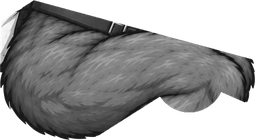
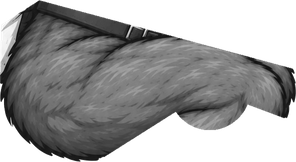
Beta: neue Figur – Seitenbein aus einem Guss, Kabelübungen (#63)
* Beta: Pausen-Bildschirm im Gym mit Zielpause pro Übung

- Nach jedem Satz grosser Pausen-Bildschirm: Pausenzeit mit Ring bis zur
  empfohlenen Pause (Standard 2 min), danach grün „Bereit“ und kurze
  Vibration; darunter was als Nächstes kommt (Übung, Satz, eben/letztes
  Mal) und ein grosser Knopf
- Zielpause mit −15/+15 s pro Übung einstellbar, im Konto gespeichert
- Supersatz: zwischen A und B kein Pausen-Bildschirm, in der Leiste Satz
  und Vorschlag; nach der Runde Pause mit der ganzen nächsten Runde,
  Zielpause = längste der Gruppe
- Wegwischen/Zurück blendet aus, Pausenuhr in der Leiste antippen holt ihn
  zurück; „Übung wechseln“ führt zur Übungsauswahl

Claude-Session: https://claude.ai/code/session_01RzgDZiCUCCWMjrRSUqxzer

* Haupt-App: Supersätze und Pausen-Bildschirm aus der Beta übernehmen

Übernahme mit tools/promote-beta.sh (Supersätze in Plan und Freestyle,
Pausen-Bildschirm mit Zielpause pro Übung).

Claude-Session: https://claude.ai/code/session_01RzgDZiCUCCWMjrRSUqxzer

* Beta: neue Faultier-Figur (v2) hinter Schalter im Konto (Zwischenstand)

Teile aus ganzen Zeichnungen geschnitten (tools/sloth-rig/build_v2.py),
Standard bleibt die klassische Figur. Seitenansicht: Rumpf wartet noch
auf eine Zeichnung ohne Arm vor der Brust.

Claude-Session: https://claude.ai/code/session_01RzgDZiCUCCWMjrRSUqxzer

* Beta: Seitenansicht der neuen Figur mit eigenem Rumpf ohne Arme

Die Brust kommt jetzt aus side_torso.jpg (kein Arm davor), keine
[…]

diff --git a/beta/sloth-rig.js b/beta/sloth-rig.js
@@ -18,7 +18,7 @@ const slothPartHref = (im) => (im.startsWith('v2') ? SLOTH_RIG2_BASE : SLOTH_RIG
 const SLOTH_PARTS = {"front_head":[510,53,696,293],"front_torso":[456,248,745,582],"front_uarm_l":[296,251,478,388],"front_uarm_r":[723,251,904,388],"front_farm_l":[51,288,294,400],"front_farm_r":[907,288,1150,400],"front_thigh_l":[439,516,582,697],"front_thigh_r":[629,516,773,697],"front_tail":[566,584,643,725],"front_calf_l":[444,678,569,866],"front_calf_r":[643,679,768,866],"back_head":[510,53,696,293],"back_torso":[455,247,745,622],"back_uarm_l":[300,251,478,388],"back_uarm_r":[723,251,900,388],"back_farm_l":[163,288,294,396],"back_farm_r":[906,288,1039,396],"back_elbow_l":[267,315,319,367],"back_elbow_r":[881,314,934,367],"back_grip_l":[195,606,314,813],"back_grip_r":[899,606,1018,813],"back_thigh_l":[439,567,571,697],"back_thigh_r":[641,562,773,697],"back_tail":[566,619,643,741],"back_calf_l":[444,678,569,866],"back_calf_r":[643,678,768,866],"pose_russian_a":[209,33,499,221],"pose_russian_b":[679,29,968,221],"pose_ninety":[339,246,498,434],"pose_frog_a":[252,454,543,618],"pose_frog_b":[697,485,1018,614],"pose_extrot_a":[405,634,537,875],"pose_extrot_b":[633,634,817,876],"eq_plate":[570,40,688,159],"eq_kettlebell":[870,40,962,159],"eq_dumbbell":[184,51,365,151],"eq_dhandle":[178,193,273,328],"eq_rope":[515,183,622,331],"eq_ring":[866,182,955,336],"eq_barend":[66,379,285,434],"eq_bench":[326,418,558,499],"eq_incline":[604,353,821,499],"eq_decline":[887,404,1118,499],"eq_cable":[92,506,252,840],"eq_dipstation":[436,631,630,840],"eq_rack":[890,553,1108,840],"eq_latpull":[68,33,226,248],"eq_legpress":[312,68,575,239],"eq_legext":[657,67,851,241],"eq_legcurl":[917,67,1143,241],"eq_butterfly":[69,324,232,543],"eq_abduction":[362,329,510,543],"eq_calfseated":[657,417,844,543],"eq_calfstanding":[931,326,1134,541],"eq_hyperext":[71,688,280,839],"eq_pullover":[465,604,649,840],"eq_tbar":[877,653,1112,840],"eq_abwheel":[181,58,443,250],"eq_jumprope":[776,42,989,261],"eq_ladder":[93,361,534,514],"eq_stepbox":[748,354,1035,538],"eq_band":[93,682,531,759],"eq_mat":[627,666,1152,759],"eq_stack":[303,516,390,652],"eq_calfframe":[499,491,711,666],"eq_calfpad":[807,531,920,627],"eq_dipbars":[292,735,461,819],"eq_nordic":[535,711,724,819],"eq_abductseat":[1008,654,1141,819],"eq_edge":[818,753,954,823],"front_face_neutral":[106,22,253,213],"front_face_effort":[106,22,251,213],"front_face_blink":[106,22,253,213],"front_face_yawn":[106,22,253,213],"side_face_neutral":[104,40,335,317],"side_face_effort":[103,40,334,317],"side_face_blink":[104,40,332,317],"side_torso":[458,53,699,568],"side_body":[458,220,692,568],"side_tail":[372,453,473,535],"side_uarm":[791,80,910,268],"side_uarm_far":[791,80,910,268],"side_elbow":[811,261,857,307],"side_elbow_far":[811,261,857,307],"side_farm":[770,320,959,400],"side_farm_far":[770,320,959,400],"side_hand":[990,449,1166,539],"side_hand_far":[990,449,1166,539],"side_thigh":[629,516,773,687],"side_thigh_far":[629,516,773,687],"side_knee":[721,652,768,700],"side_knee_far":[721,652,768,700],"side_calf":[1020,689,1180,854],"side_calf_far":[1020,689,1180,854],"side_shin":[1020,689,1122,793],"side_shin_far":[1020,689,1122,793],"side_fist":[59,109,404,284],"side_fist_far":[59,109,404,284],"side_foot":[152,622,370,804],"side_foot_far":[152,622,370,804],"side_flat":[624,706,893,825],"side_flat_far":[624,706,893,825]};
 /* PARTS:END */
 /* V2:BEGIN */
-const SLOTH_V2 = {"parts":{"v2front_torso":[149,183,351,481],"v2front_head":[173,15,331,198],"v2front_uarm_l":[86,206,200,366],"v2front_farm_l":[12,322,139,516],"v2front_farmfist_l":[12,322,139,516],"v2front_thigh_l":[142,400,251,584],"v2front_calf_l":[80,546,224,758],"v2front_uarm_r":[300,206,418,364],"v2front_farm_r":[365,322,497,516],"v2front_farmfist_r":[365,322,497,516],"v2front_thigh_r":[252,400,365,584],"v2front_calf_r":[284,546,428,758],"v2back_torso":[149,182,351,466],"v2back_head":[174,12,338,201],"v2back_uarm_l":[79,204,201,371],"v2back_farm_l":[30,326,142,440],"v2back_grip_l":[12,412,86,518],"v2back_thigh_l":[143,398,252,586],"v2back_calf_l":[78,546,224,753],"v2back_uarm_r":[300,204,429,367],"v2back_farm_r":[370,326,478,438],"v2back_grip_r":[426,412,499,518],"v2back_thigh_r":[250,397,370,585],"v2back_calf_r":[285,546,430,753],"v2hang_torso":[164,216,346,464],"v2hang_head":[196,120,317,263],"v2hang_uarm_l":[126,136,213,334],"v2hang_farm_l":[122,50,192,164],"v2hang_grip_l":[120,13,198,74],"v2hang_thigh_l":[152,400,261,581],"v2hang_calf_l":[136,540,235,754],"v2hang_uarm_r":[297,136,387,348],"v2hang_farm_r":[321,52,391,164],"v2hang_grip_r":[316,13,392,74],"v2hang_thigh_r":[250,400,360,582],"v2hang_calf_r":[277,540,376,754],"v2sit_torso":[153,184,361,403],"v2sit_head":[176,22,337,196],"v2sit_uarm_l":[78,215,181,389],"v2sit_farm_l":[49,352,150,539],"v2sit_thigh_l":[136,377,258,491],"v2sit_calf_l":[100,453,244,750],"v2sit_uarm_r":[330,216,435,389],"v2sit_farm_r":[362,352,464,539],"v2sit_thigh_r":[254,377,376,489],"v2sit_calf_r":[268,453,412,750],"v2side_torso":[87,211,307,557],"v2side_face":[92,11,254,191],"v2side_uarm":[157,180,325,270],"v2side_farm":[296,184,442,266],"v2side_hand":[422,190,496,238],"v2side_fist":[296,184,496,266],"v2side_flat":[422,190,496,238],"v2side_thigh":[136,395,280,595],"v2side_calf":[204,556,380,751],"v2side_shin":[204,556,293,744],"v2side_foot":[238,670,380,750],"v2side_uarm_far":[157,180,325,270],"v2side_farm_far":[296,184,442,266],"v2side_hand_far":[422,190,496,238],"v2side_fist_far":[296,184,496,266],"v2side_flat_far":[422,190,496,238],"v2side_thigh_far":[136,395,280,595],"v2side_calf_far":[204,556,380,751],"v2side_shin_far":[204,556,293,744],"v2side_foot_far":[238,670,380,750],"v2side_thigh45":[128,455,358,626],"v2side_thigh45_far":[128,455,358,626],"v2side_thigh90":[95,357,350,497],"v2side_thigh90_far":[95,357,350,497]},"joints":{"front":{"torso":[[250.0,445.0],[250.0,185.0]],"head":[[250.0,185.0],[250.0,20.0]],"farm_l":[[102.5,345.0],[40.0,495.0]],"uarm_l":[[165.0,240.0],[102.5,345.0]],"thigh_l":[[210.0,445.0],[180.0,575.0]],"calf_l":[[180.0,575.0],[155.0,695.0]],"farm_r":[[397.5,345.0],[462.5,495.0]],"uarm_r":[[335.0,240.0],[397.5,345.0]],"thigh_r":[[290.0,445.0],[320.0,575.0]],"calf_r":[[320.0,575.0],[345.0,695.0]]},"back":{"torso":[[250.0,445.0],[250.0,190.0]],"head":[[250.0,190.0],[250.0,15.0]],"grip_l":[[57.5,430.0],[42.5,500.0]],"farm_l":[[102.5,350.0],[57.5,430.0]],"uarm_l":[[165.0,240.0],[102.5,350.0]],"thigh_l":[[210.0,445.0],[180.0,575.0]],"calf_l":[[180.0,575.0],[155.0,695.0]],"grip_r":[[445.0,430.0],[465.0,500.0]],"farm_r":[[400.0,350.0],[445.0,430.0]],"uarm_r":[[335.0,240.0],[400.0,350.0]],"thigh_r":[[290.0,445.0],[325.0,575.0]],"calf_r":[[325.0,575.0],[350.0,695.0]]},"hang":{"torso":[[255.0,465.0],[255.0,235.0]],"head":[[255.0,235.0],[255.0,120.0]],"grip_l":[[152.5,55.0],[157.5,25.0]],"farm_l":[[150.0,140.0],[152.5,55.0]],"uarm_l":[[177.5,255.0],[150.0,140.0]],"thigh_l":[[222.5,465.0],[187.5,570.0]],"calf_l":[[187.5,570.0],[172.5,700.0]],"grip_r":[[355.0,55.0],[352.5,25.0]],"farm_r":[[357.5,140.0],[355.0,55.0]],"uarm_r":[[332.5,255.0],[357.5,140.0]],"thigh_r":[[287.5,465.0],[322.5,570.0]],"calf_r":[[322.5,570.0],[340.0,700.0]]},"sit":{"torso":[[255.0,415.0],[255.0,190.0]],"head":[[255.0,190.0],[255.0,25.0]],"farm_l":[[105.0,375.0],[75.0,525.0]],"uarm_l":[[145.0,257.5],[105.0,375.0]],"thigh_l":[[190.0,415.0],[192.5,482.5]],"calf_l":[[192.5,482.5],[169.0,660.0]],"farm_r":[[405.0,375.0],[435.0,525.0]],"uarm_r":[[365.0,257.5],[405.0,375.0]],"thigh_r":[[320.0,415.0],[320.0,482.5]],"calf_r":[[320.0,482.5],[340.0,660.0]]},"side":{"torso":[[210.0,533.5],[213.8,315.9]],"face":[[200.0,170.0],[165.0,30.0]],"flex":{"thigh":21.3,"thigh45":74.1,"thigh90":95.4},"thigh45":[[155.5,510.7],[282.6,583.3]],"thigh90":[[137.6,430.1],[283.9,434.4]],"uarm":[[200.0,222.5],[320.0,225.0]],"farm":[[320.0,225.0],[440.0,212.5]],"fist":[[320.0,225.0],[440.0,212.5]],"hand":[[440.0,212.5],[492.5,215.0]],"flat":[[440.0,212.5],[492.5,215.0]],"thigh":[[195.0,447.5],[245.0,585.0]],"calf":[[245.0,585.0],[260.0,695.0]],"shin":[[245.0,585.0],[260.0,695.0]],"foot":[[260.0,695.0],[370.0,735.0]]}},"anchors":{"front":{"neck":[250.0,185.0],"sh_l":[165.0,240.0],"sh_r":[335.0,240.0],"hip_l":[210.0,445.0],"hip_r":[290.0,445.0],"tail":[250.0,445.0]},"back":{"neck":[250.0,190.0],"sh_l":[165.0,240.0],"sh_r":[335.0,240.0],"hip_l":[210.0,445.0],"hip_r":[290.0,445.0],"tail":[250.0,445.0]},"hang":{"neck":[255.0,235.0],"sh_l":[177.5,255.0],"sh_r":[332.5,255.0],"hip_l":[222.5,465.0],"hip_r":[287.5,465.0],"tail":[255.0,465.0]},"sit":{"neck":[255.0,190.0],"sh_l":[145.0,257.5],"sh_r":[365.0,257.5],"hip_l":[190.0,415.0],"hip_r":[320.0,415.0],"tail":[255.0,415.0]},"side":{"shoulder":[213.8,315.9],"hip":[210.0,533.5],"tail":[137.0,545.0],"face":[242.1,260.9]}}};
+const SLOTH_V2 = {"parts":{"v2front_torso":[149,183,351,481],"v2front_head":[173,15,331,198],"v2front_uarm_l":[86,206,200,366],"v2front_farm_l":[12,322,139,516],"v2front_farmfist_l":[16,322,138,468],"v2front_thigh_l":[142,400,251,584],"v2front_calf_l":[80,546,224,758],"v2front_uarm_r":[300,206,418,364],"v2front_farm_r":[365,322,497,516],"v2front_farmfist_r":[370,322,494,468],"v2front_thigh_r":[252,400,365,584],"v2front_calf_r":[284,546,428,758],"v2back_torso":[149,182,351,466],"v2back_head":[174,12,338,201],"v2back_uarm_l":[79,204,201,371],"v2back_farm_l":[30,326,142,440],"v2back_grip_l":[12,412,86,518],"v2back_thigh_l":[143,398,252,586],"v2back_calf_l":[78,546,224,753],"v2back_uarm_r":[300,204,429,367],"v2back_farm_r":[370,326,478,438],"v2back_grip_r":[426,412,499,518],"v2back_thigh_r":[250,397,370,585],"v2back_calf_r":[285,546,430,753],"v2hang_torso":[164,216,346,464],"v2hang_head":[196,120,317,263],"v2hang_uarm_l":[126,136,213,334],"v2hang_farm_l":[122,50,192,164],"v2hang_grip_l":[120,13,198,74],"v2hang_thigh_l":[152,400,261,581],"v2hang_calf_l":[136,540,235,754],"v2hang_uarm_r":[297,136,387,348],"v2hang_farm_r":[321,52,391,164],"v2hang_grip_r":[316,13,392,74],"v2hang_thigh_r":[250,400,360,582],"v2hang_calf_r":[277,540,376,754],"v2sit_torso":[153,184,361,403],"v2sit_head":[176,22,337,196],"v2sit_uarm_l":[78,215,181,389],"v2sit_farm_l":[49,352,150,539],"v2sit_thigh_l":[136,377,258,491],"v2sit_calf_l":[100,453,244,750],"v2sit_uarm_r":[330,216,435,389],"v2sit_farm_r":[362,352,464,539],"v2sit_thigh_r":[254,377,376,489],"v2sit_calf_r":[268,453,412,750],"v2side_torso":[87,211,307,557],"v2side_face":[92,11,254,191],"v2side_uarm":[157,180,325,270],"v2side_farm":[296,184,442,266],"v2side_hand":[422,190,496,238],"v2side_fist":[296,184,496,266],"v2side_flat":[422,190,496,238],"v2side_uarm_far":[157,180,325,270],"v2side_farm_far":[296,184,442,266],"v2side_hand_far":[422,190,496,238],"v2side_fist_far":[296,184,496,266],"v2side_flat_far":[422,190,496,238],"v2side_thigh":[212,448,361,680],"v2side_thigh_far":[212,448,361,680],"v2side_calf":[271,640,458,900],"v2side_calf_far":[271,640,458,900],"v2side_shin":[271,640,347,836],"v2side_shin_far":[271,640,347,836],"v2side_foot":[291,783,457,899],"v2side_foot_far":[291,783,457,899],"v2side_thigh45":[127,452,355,622],"v2side_thigh45_far":[127,452,355,622],"v2side_thigh90":[110,416,406,578],"v2side_thigh90_far":[110,416,406,578]},"joints":{"front":{"torso":[[250.0,445.0],[250.0,185.0]],"head":[[250.0,185.0],[250.0,20.0]],"farm_l":[[102.5,345.0],[40.0,495.0]],"uarm_l":[[165.0,240.0],[102.5,345.0]],"thigh_l":[[210.0,445.0],[180.0,575.0]],"calf_l":[[180.0,575.0],[155.0,695.0]],"farm_r":[[397.5,345.0],[462.5,495.0]],"uarm_r":[[335.0,240.0],[397.5,345.0]],"thigh_r":[[290.0,445.0],[320.0,575.0]],"calf_r":[[320.0,575.0],[345.0,695.0]]},"back":{"torso":[[250.0,445.0],[250.0,190.0]],"head":[[250.0,190.0],[250.0,15.0]],"grip_l":[[57.5,430.0],[42.5,500.0]],"farm_l":[[102.5,350.0],[57.5,430.0]],"uarm_l":[[165.0,240.0],[102.5,350.0]],"thigh_l":[[210.0,445.0],[180.0,575.0]],"calf_l":[[180.0,575.0],[155.0,695.0]],"grip_r":[[445.0,430.0],[465.0,500.0]],"farm_r":[[400.0,350.0],[445.0,430.0]],"uarm_r":[[335.0,240.0],[400.0,350.0]],"thigh_r":[[290.0,445.0],[325.0,575.0]],"calf_r":[[325.0,575.0],[350.0,695.0]]},"hang":{"torso":[[255.0,465.0],[255.0,235.0]],"head":[[255.0,235.0],[255.0,120.0]],"grip_l":[[152.5,55.0],[157.5,25.0]],"farm_l":[[150.0,140.0],[152.5,55.0]],"uarm_l":[[177.5,255.0],[150.0,140.0]],"thigh_l":[[222.5,465.0],[187.5,570.0]],"calf_l":[[187.5,570.0],[172.5,700.0]],"grip_r":[[355.0,55.0],[352.5,25.0]],"farm_r":[[357.5,140.0],[355.0,55.0]],"uarm_r":[[332.5,255.0],[357.5,140.0]],"thigh_r":[[287.5,465.0],[322.5,570.0]],"calf_r":[[322.5,570.0],[340.0,700.0]]},"sit":{"torso":[[255.0,415.0],[255.0,190.0]],"head":[[255.0,190.0],[255.0,25.0]],"farm_l":[[105.0,375.0],[75.0,525.0]],"uarm_l":[[145.0,257.5],[105.0,375.0]],"thigh_l":[[190.0,415.0],[192.5,482.5]],"calf_l":[[192.5,482.5],[169.0,660.0]],"farm_r":[[405.0,375.0],[435.0,525.0]],"uarm_r":[[365.0,257.5],[405.0,375.0]],"thigh_r":[[320.0,415.0],[320.0,482.5]],"calf_r":[[320.0,482.5],[340.0,660.0]]},"side":{"torso":[[210.0,533.5],[213.8,315.9]],"face":[[200.0,170.0],[165.0,30.0]],"flex":{"thigh":6.7,"thigh45":74.1,"thigh90":92.4},"thigh45":[[154.5,507.3],[280.7,579.4]],"thigh90":[[167.5,492.5],[320.0,505.0]],"uarm":[[200.0,222.5],[320.0,225.0]],"farm":[[320.0,225.0],[440.0,212.5]],"fist":[[320.0,225.0],[440.0,212.5]],"hand":[[440.0,212.5],[492.5,215.0]],"flat":[[440.0,212.5],[492.5,215.0]],"thigh":[[288.0,525.0],[318.0,675.0]],"calf":[[318.0,675.0],[318.0,810.0]],"shin":[[318.0,675.0],[318.0,810.0]],"foot":[[318.0,810.0],[444.0,864.0]]}},"anchors":{"front":{"neck":[250.0,185.0],"sh_l":[165.0,240.0],"sh_r":[335.0,240.0],"hip_l":[210.0,445.0],"hip_r":[290.0,445.0],"tail":[250.0,445.0]},"back":{"neck":[250.0,190.0],"sh_l":[165.0,240.0],"sh_r":[335.0,240.0],"hip_l":[210.0,445.0],"hip_r":[290.0,445.0],"tail":[250.0,445.0]},"hang":{"neck":[255.0,235.0],"sh_l":[177.5,255.0],"sh_r":[332.5,255.0],"hip_l":[222.5,465.0],"hip_r":[287.5,465.0],"tail":[255.0,465.0]},"sit":{"neck":[255.0,190.0],"sh_l":[145.0,257.5],"sh_r":[365.0,257.5],"hip_l":[190.0,415.0],"hip_r":[320.0,415.0],"tail":[255.0,415.0]},"side":{"shoulder":[213.8,315.9],"hip":[210.0,533.5],"tail":[137.0,545.0],"face":[242.1,260.9]}}};
 /* V2:END */
 
 // Gelenkpunkte in Vorlagen-Koordinaten (1200 x 896): [nah, fern]
@@ -476,7 +476,7 @@ const SLOTH_POSES = {
   },
   tricepsext: {
     view: 'side', pin: 'ankle', dur: 2.4, floor: 46, grip: 'fist', label: 'Trizepsdrücken am Kabel',
-    props: [cableTower(400), cableLine('top'), { img: 'rope', at: 'grip', a: [568, 196], k: 1.2 }],
+    props: [cableTower(400), cableLine('top')],
     a: { torso: -92, uarm: 100, farm: -30, hand: -30, thigh: 84, calf: 92 },
     b: { torso: -92, uarm: 100, farm: 84, hand: 84, thigh: 84, calf: 92 },
   },
@@ -503,8 +503,7 @@ const SLOTH_POSES = {
   },
   lateralcable: {
     view: 'front', pin: 'feet', dur: 2.6, floor: 26, armLift: 45, label: 'Seitheben am Kabel',
-    props: [{ img: 'cable', at: [-420, 26], a: [171, 838], k: 2.7, layer: 'back' }, cableLine('low', 'hand_r'),
-      { img: 'dhandle', at: 'hand_r', a: [226, 205], k: 1.1 }],
+    props: [{ img: 'cable', at: [-420, 26], a: [171, 838], k: 2.7, layer: 'back' }, cableLine('low', 'hand_r')],
     a: { torso: -90, head: -90, uarm_l: 108, farm_l: 96, uarm_r: 80, farm_r: 96, ...STAND_LEGS, tail: 0 },
     b: { torso: -90, head: -90, uarm_l: 108, farm_l: 96, uarm_r: -2, farm_r: 6, ...STAND_LEGS, tail: 0 },
   },
@@ -525,52 +524,52 @@ const SLOTH_POSES = {
   // Vorderansicht: Kabel oben rechts, beide Hände am Griff ziehen diagonal vor dem Körper nach unten links
   woodchop: {
     view: 'front', pin: 'feet', dur: 2.4, floor: 26, armLift: 45, armsFront: true, join: { arm: 'l', to: 'hand_r', bend: 1 }, label: 'Holzhacker am Kabel',
-    props: [{ img: 'cable', at: [620, 26], a: [171, 838], k: 2.7, flip: true, layer: 'back' }, cableLine('top', 'hand_r'),
-      { img: 'dhandle', at: 'hand_r', a: [226, 205], k: 1.1 }],
+    props: [{ img: 'cable', at: [620, 26], a: [171, 838], k: 2.7, flip: true, layer: 'back' }, cableLine('top', 'hand_r')],
     a: { torso: -80, head: -84, uarm_l: -23.6, farm_l: -23.6, uarm_r: 45, farm_r: 268, ...STAND_LEGS, tail: 0 },
     b: { torso: -100, head: -96, uarm_l: 142.9, farm_l: 45.9, uarm_r: 127.5, farm_r: 127.5, ...STAND_LEGS, tail: 0 },
   },
   // Kabelturm links, Griff in der linken Hand; neigt sich gegen den Zug vom Turm weg
   sidebendcable: {
     view: 'front', pin: 'feet', dur: 2.6, floor: 26, armLift: 45, relArms: true, label: 'Seitbeuge am Kabel',
-    props: [{ img: 'cable', at: [-460, 26], a: [171, 838], k: 2.7, layer: 'back' }, cableLine('low', 'hand_l'),
-      { img: 'dhandle', at: 'hand_l', a: [226, 205], k: 1.1 }],
+    props: [{ img: 'cable', at: [-460, 26], a: [171, 838], k: 2.7, layer: 'back' }, cableLine('low', 'hand_l')],
     a: { torso: -100, head: -98, uarm_l: 100, farm_l: 94, uarm_r: 60, farm_r: 150, ...STAND_LEGS, tail: 0 },
     b: { torso: -76, head: -80, uarm_l: 100, farm_l: 94, uarm_r: 60, farm_r: 150, ...STAND_LEGS, tail: 0 },
   },
   facepull: {
     view: 'side', pin: 'ankle', dur: 2.4, floor: 46, grip: 'fist', label: 'Face Pull',
-    props: [cableTower(420), cableLine('top'), { img: 'rope', at: 'grip', a: [568, 196], k: 1.2 }],
+    props: [cableTower(420), cableLine('top')],
     a: { torso: -92, uarm: -22, farm: -24, thigh: 84, calf: 92 },
     b: { torso: -94, uarm: 196, farm: -40, thigh: 84, calf: 92 },
+    // neue Figur: Ellbogen wandert auf Schulterhöhe gerade nach hinten (len_uarm < 0: Oberarm zeigt hinter die Schulter)
+    v2: { a: { uarm: -12, len_uarm: 1, farm: -14 }, b: { uarm: -12, len_uarm: -0.35, farm: -78 } },
   },
   cablerow: {
     view: 'side', pin: 'hip', dur: 2.6, floor: 60, grip: 'fist', label: 'Rudern am Kabel',
-    props: [cableTower(560), cableLine('low'), { img: 'dhandle', at: 'grip', a: [226, 205], k: 1.1 }],
+    props: [cableTower(560), cableLine('low')],
     a: { torso: -60, uarm: 4, farm: 2, thigh: -4, calf: 10 },
     b: { torso: -94, uarm: 128, farm: 6, thigh: -4, calf: 10 },
   },
   straightarm: {
     view: 'side', pin: 'ankle', dur: 2.6, floor: 46, grip: 'fist', label: 'Überzug am Kabel',
-    props: [cableTower(460), cableLine('top'), { img: 'dhandle', at: 'grip', a: [226, 205], k: 1.1 }],
+    props: [cableTower(460), cableLine('top')],
     a: { torso: -70, uarm: -40, farm: -40, thigh: 80, calf: 96 },
     b: { torso: -70, uarm: 96, farm: 94, thigh: 80, calf: 96 },
   },
   cablecurl: {
     view: 'side', pin: 'ankle', dur: 2.4, floor: 46, grip: 'fist', label: 'Curl am Kabel',
-    props: [cableTower(420), cableLine('low'), { img: 'dhandle', at: 'grip', a: [226, 205], k: 1.1 }],
+    props: [cableTower(420), cableLine('low')],
     a: { torso: -96, uarm: 96, farm: 88, thigh: 86, calf: 92 },
     b: { torso: -96, uarm: 100, farm: -52, thigh: 86, calf: 92 },
   },
   cablecrunch: {
     view: 'side', pin: 'knee', dur: 2.6, floor: 30, grip: 'fist', relArms: true, label: 'Crunch am Kabel',
-    props: [cableTower(470), cableLine('top'), { img: 'rope', at: 'grip', a: [568, 196], k: 1.2 }],
+    props: [cableTower(470), cableLine('top')],
     a: { torso: -86, uarm: 170, farm: -10, thigh: 90, calf: 180, fthigh: 90, fcalf: 180 },
     b: { torso: -10, uarm: 170, farm: -10, thigh: 110, calf: 180, fthigh: 110, fcalf: 180 },
   },
   pallof: {
     view: 'side', pin: 'ankle', dur: 3, floor: 46, grip: 'fist', label: 'Pallof Press',
-    props: [cableTower(470), cableLine('mid'), { img: 'dhandle', at: 'grip', a: [226, 205], k: 1.1 }],
+    props: [cableTower(470), cableLine('mid')],
     a: { torso: -94, uarm: 100, farm: -12, thigh: 80, calf: 96 },
     b: { torso: -94, uarm: -4, farm: -4, thigh: 80, calf: 96 },
   },
@@ -585,8 +584,7 @@ const SLOTH_POSES = {
     view: 'front', pin: 'feet', dur: 2.6, floor: 26, armLift: 45, label: 'Kabel-Crossover',
     // zwei Kabeltürme, Seile von den oberen Rollen zu den Händen
     props: [{ img: 'cable', at: [-640, 26], a: [171, 838], k: 2.7, layer: 'back' }, { img: 'cable', at: [640, 26], a: [171, 838], k: 2.7, flip: true, layer: 'back' },
-      { line: { prop: 0, pt: CABLE_PULLEY.top }, to: 'hand_l' }, { line: { prop: 1, pt: CABLE_PULLEY.top }, to: 'hand_r' },
-      { img: 'dhandle', at: 'hand_l', a: [226, 205], k: 1.1 }, { img: 'dhandle', at: 'hand_r', a: [226, 205], k: 1.1 }],
+      { line: { prop: 0, pt: CABLE_PULLEY.top }, to: 'hand_l' }, { line: { prop: 1, pt: CABLE_PULLEY.top }, to: 'hand_r' }],
     a: { torso: -90, head: -90, uarm_l: -160, farm_l: -150, uarm_r: -20, farm_r: -30, ...STAND_LEGS, tail: 0 },
     b: { torso: -90, head: -90, uarm_l: -240, farm_l: -320, uarm_r: 60, farm_r: 140, ...STAND_LEGS, tail: 0 },
   },
@@ -642,10 +640,18 @@ const SLOTH_POSES = {
   },
 
   reversefly: {
-    view: 'front', pin: 'feet', dur: 2.6, floor: 26, armLift: 45, label: 'Reverse Butterfly',
+    // Rückansicht: Arme starten vorne vor der Brust (verdeckt, len < 0) und gehen auf Schulterhöhe nach hinten in die T-Position
+    view: 'back', pin: 'feet', dur: 2.6, floor: 26, label: 'Reverse Butterfly',
     props: [{ img: 'butterfly', at: [0, 26], a: [125, 555], k: 3.6, layer: 'back' }],
-    a: { torso: -90, head: -90, uarm_l: 130, farm_l: 130, uarm_r: 50, farm_r: 50, ...STAND_LEGS, tail: 0 },
-    b: { torso: -90, head: -90, uarm_l: 180, farm_l: 180, uarm_r: 0, farm_r: 0, ...STAND_LEGS, tail: 0 },
+    a: { torso: -90, head: -90, uarm_l: 180, len_uarm_l: -0.3, farm_l: 180, len_farm_l: -0.3, uarm_r: 0, len_uarm_r: -0.3, farm_r: 0, len_farm_r: -0.3, ...STAND_LEGS, tail: 0 },
+    b: { torso: -90, head: -90, uarm_l: 180, len_uarm_l: 1, farm_l: 180, len_farm_l: 1, uarm_r: 0, len_uarm_r: 1, farm_r: 0, len_farm_r: 1, ...STAND_LEGS, tail: 0 },
+  },
+  extrot: {
+    // Aussenrotation am Kabel (Vorderansicht): Ellbogen bleibt am Körper, Unterarm dreht von vor dem Bauch nach aussen
+    view: 'front', pin: 'feet', dur: 2.6, floor: 26, label: 'Aussenrotation am Kabel',
+    props: [{ img: 'cable', at: [-420, 26], a: [171, 838], k: 2.7, layer: 'back' }, cableLine('mid', 'hand_r')],
+    a: { torso: -90, head: -90, uarm_l: 100, farm_l: 96, uarm_r: 86, farm_r: 172, len_farm_r: 0.55, ...STAND_LEGS, tail: 0 },
+    b: { torso: -90, head: -90, uarm_l: 100, farm_l: 96, uarm_r: 86, farm_r: 4, len_farm_r: 0.85, ...STAND_LEGS, tail: 0 },
   },
   // Sitzend von vorne: Oberschenkel zeigen zum Betrachter (verkürzt), Knie drücken nach aussen gegen die Polster
   abduction: {
@@ -832,7 +838,7 @@ function slothRigBuild(pose, v2 = false) {
   const tlen = (jj) => Math.hypot(jj.torso[1][0] - jj.torso[0][0], jj.torso[1][1] - jj.torso[0][1]);
   // Grösse wie die bisherige Figur, damit Geräte und Bänke weiter passen
   const KV = v2 ? tlen(SLOTH_JOINTS[view]) / tlen(SLOTH_V2.joints[vk === 'hang' ? 'back' : vk]) : 1;
-  const holds = (pose.props || []).some((pr) => /^hand_/.test(pr.at || ''));
+  const holds = (pose.props || []).some((pr) => /^hand_/.test(pr.at || pr.to || '')); // Hantel oder Kabel in der Hand -> Faust
   const img2 = (n) => {
     if (!v2 || !n || n.startsWith('eq_')) return n;
     let m = n === 'side_body' ? 'v2side_torso' : n === 'side_face_neutral' ? 'v2side_face' : n === 'front_face_neutral' ? 'v2' + vk + '_head'
@@ -944,7 +950,7 @@ function slothRigBuild(pose, v2 = false) {
     // len_<teil>: Glied verkürzt (zeigt zum Betrachter, z. B. Arme kommen beim Butterfly nach vorne)
     // near_<teil>: Glied kommt zum Betrachter -> insgesamt etwas grösser (Perspektive)
     // v2: len_farm ~0 war nur ein Behelf der alten Greifhand (brachte Unterarm mit); die neue hat einen echten Unterarm
-    const shorten = (e, key) => { const L0 = s['len_' + key] ?? 1, L = v2 && L0 < 0.05 && /^farm_/.test(key) ? 1 : L0, N = s['near_' + key] ?? 1; if (L === 1 && N === 1) return e;
+    const shorten = (e, key) => { const L0 = s['len_' + key] ?? 1, L = v2 && L0 > 0 && L0 < 0.05 && /^farm_/.test(key) ? 1 : L0, N = s['near_' + key] ?? 1; if (L === 1 && N === 1) return e;
       const d = sub(e.end, e.P); return { ...e, k: [e.k * L * N, e.k * N], end: add(e.P, mul(d, L * N)) }; };
     for (const x of ['l', 'r']) {
       const sh = A['sh_' + x];
@@ -953,7 +959,10 @@ function slothRigBuild(pose, v2 = false) {
       const alt = vk === 'hang' && [pose.a, pose.b].every((k) => (k['uarm_' + x] ?? 90) > 45) ? 'back' : undefined;
       q['uarm_' + x] = shorten(place('uarm_' + x, t.map([sh[0], sh[1] - (v2 ? 0 : pose.armLift || 0)]), arm('uarm_' + x), undefined, 1, alt), 'uarm_' + x);
       q['farm_' + x] = shorten(place('farm_' + x, q['uarm_' + x].end, arm('farm_' + x), undefined, 1, alt), 'farm_' + x);
-      if (J['grip_' + x]) q['grip_' + x] = place('grip_' + x, q['farm_' + x].end, arm('grip_' + x), undefined, 1, alt);
+      if (J['grip_' + x]) {
+        const gk = s['grip_' + x] != null ? 'grip_' + x : 'farm_' + x; // ohne eigenen Winkel: Hand in Verlängerung des Unterarms
+        q['grip_' + x] = shorten(place('grip_' + x, q['farm_' + x].end, arm(gk), undefined, 1, alt), s['len_grip_' + x] != null ? 'grip_' + x : 'farm_' + x);
+      }
       q['thigh_' + x] = shorten(place('thigh_' + x, t.map(A['hip_' + x]), leg('thigh_' + x)), 'thigh_' + x);
       q['calf_' + x] = place('calf_' + x, q['thigh_' + x].end, leg('calf_' + x));
       if (view === 'back') q['elbow_' + x] = ball('back_elbow_' + x, q['uarm_' + x].end);
@@ -1213,7 +1222,6 @@ const SLOTH_SWAPS = {
   russian: { imgs: [['pose_russian_a', [355, 220]], ['pose_russian_b', [824, 220]]], dur: 2.4, label: 'Russian Twist' },
   ninety: { imgs: [['pose_ninety', [418, 434]]], dur: 4, label: '90/90-Dehnung' },
   frog: { imgs: [['pose_frog_a', [397, 619]], ['pose_frog_b', [858, 614]]], dur: 3.6, label: 'Frog Stretch' },
-  extrot: { imgs: [['pose_extrot_a', [471, 876]], ['pose_extrot_b', [753, 876]]], dur: 2.6, label: 'Aussenrotation' },
 };
 function slothSwapFigure(name, cls) {
   const sw = SLOTH_SWAPS[name];

diff --git a/beta/sw.js b/beta/sw.js
@@ -1,4 +1,4 @@
-const CACHE_NAME = 'pincho-beta-v68';
+const CACHE_NAME = 'pincho-beta-v69';
 const SHELL_ASSETS = [
   './', './index.html', './styles.css', './data.js', './firebase.js', './sloth-rig.js', './app.js',
   './manifest.json', '../assets/icon-512-any.png', '../assets/icon-192-any.png', '../assets/icon-512-transparent.png', '../assets/icon-512-maskable.png', '../assets/icon-beta-192-any.png', '../assets/icon-beta-512-maskable.png',

diff --git a/tools/sloth-rig/build_v2.py b/tools/sloth-rig/build_v2.py
@@ -152,11 +152,11 @@ def cut_view(view, cfg, parts, joints, anchors):
         g[ry, rx] = 0.5 * g[ry, rx] + 0.5 * soft[ry, rx]
         return True
 
-    def save(name, mask, joint=None, src=None, dark=1.0, fade=None, ink=False):
+    def save(name, mask, joint=None, src=None, dark=1.0, fade=None, ink=False, src_alpha=None):
         Gs = G if src is None else src
         # lose Fellsträhnen weg (Oberarm: Achselhaar hängt sonst als Strich herunter)
         mask = biggest(ndi.binary_opening(mask, iterations=6 if name.startswith('uarm') else 2))
-        g = Gs.copy(); a0 = alpha.copy()
+        g = Gs.copy(); a0 = (alpha if src_alpha is None else src_alpha).copy()
         if joint:  # Gelenk-Überlappung mit eigenem Fell
             r = CAP[re.sub('[LR]$', '', joint)]
             cap = (np.hypot(xx - J[joint][0], yy - J[joint][1]) < r) & ~mask
@@ -168,7 +168,7 @@ def cut_view(view, cfg, parts, joints, anchors):
             band = ndi.gaussian_filter((ndi.distance_transform_edt(~cut) < 3).astype(float), 1.0) * mask
             g = g * (1 - 0.7 * band)
         # an Schnittkanten (mitten im Fell) 2 px Originalfell dazu, damit die weiche Kante keinen dunklen Strich zeichnet
-        mask = mask | (ndi.binary_dilation(mask, iterations=2) & ndi.binary_erosion(fig, iterations=3))
+        mask = mask | (ndi.binary_dilation(mask, iterations=2) & ndi.binary_erosion(fig if src_alpha is None else src_alpha > 0.5, iterations=3))
         a = ndi.gaussian_filter(mask.astype(float), 0.8) * np.where(mask, a0, 0)
         if fade is not None:  # Schnittkante weich in das darunterliegende Teil auslaufen lassen (Hals)
             d = ndi.distance_transform_edt(~fade)
@@ -196,27 +196,26 @@ def cut_view(view, cfg, parts, joints, anchors):
             save('hand' + far, M['handR'], 'wrR', dark=dark)
             save('fist' + far, M['farmR'] | M['handR'], 'elR', dark=dark)  # Unterarm + Hand in einem Teil (wie bisher 'fist')
             save('flat' + far, M['handR'], 'wrR', dark=dark)
-            save('thigh' + far, M['thighR'], dark=dark, ink='hipR')  # Rumpf endet am Gürtel, Gesäss gehört zum Bein: keine Kappe nötig
-            save('calf' + far, M['calfR'] | M['footR'], 'knR', dark=dark)  # Unterschenkel mit Fuss
-            save('shin' + far, M['calfR'], 'knR', dark=dark)
-            save('foot' + far, M['footR'], 'anR', dark=dark)
-        # gebeugte Oberschenkel: gleiche Länge Hüfte -> Knie wie stehend, Beugewinkel der Zeichnung merken
-        L0 = np.hypot(J['knR'][0] - J['hipR'][0], J['knR'][1] - J['hipR'][1])
-        jv['flex'] = {'thigh': round(flex_of((J['hip'], J['shR']), J['hipR'], J['knR']), 1)}
+        # Beine: stehend + gebeugte Oberschenkel aus der armlosen Serie, Beugewinkel der Zeichnungen merken
+        legJ, fl0 = side_stand(parts, SIDE_STAND)  # ganzes Bein aus der armlosen Serie (passt zum Rumpf)
+        jv['flex'] = {'thigh': round(fl0, 1)}
         for k, c in SIDE_LEGS.items():
-            jv[k], fl = side_thigh(parts, k, c, L0 / np.hypot(c['kn'][0] - c['hip'][0], c['kn'][1] - c['hip'][1]))
+            jv[k], fl = side_thigh(parts, k, c, c['scale'])
             jv['flex'][k] = round(fl, 1)
         jv.update(uarm=[sc(J['shR']), sc(J['elR'])], farm=[sc(J['elR']), sc(J['wrR'])], fist=[sc(J['elR']), sc(J['wrR'])],
                   hand=[sc(J['wrR']), sc(J['fiR'])], flat=[sc(J['wrR']), sc(J['fiR'])],
-                  thigh=[sc(J['hipR']), sc(J['knR'])], calf=[sc(J['knR']), sc(J['anR'])], shin=[sc(J['knR']), sc(J['anR'])],
-                  foot=[sc(J['anR']), sc(J['toR'])])
+                  **legJ)
         return
     save('torso', M['torso'])
     save('head', M['head'], fade=torsoCut)
     jv['torso'] = [sc(J['hip']), sc(J['neck'])]
     jv['head'] = [sc(J['neck']), sc(J['top'])]
     anchors[view] = {'neck': sc(J['neck']), 'sh_l': sc(J['shL']), 'sh_r': sc(J['shR']), 'hip_l': sc(J['hipL']), 'hip_r': sc(J['hipR']), 'tail': sc(J['hip'])}
-    fistG = gray(np.asarray(Image.open(os.path.join(HERE, 'sheets', 'v2', cfg['fist'])).convert('RGB')).astype(float)) if cfg.get('fist') else None
+    # Faust-Zeichnung mit eigenem Umriss und eigener Deckkraft (sonst weisser Rand, wo die offene Hand breiter war)
+    fistG = fistM = fistA = None
+    if cfg.get('fist'):
+        _, fistG, fistFig, fistA = figure(cfg['fist'])
+        fistM = fistFig & ~head & ~torso
     grip = view not in ('front', 'sit')  # Rückansicht/Hängen: eigene Greifhand (wie bisher grip_l/grip_r)
     for s in 'LR':
         x = s.lower()
@@ -229,7 +228,7 @@ def cut_view(view, cfg, parts, joints, anchors):
         else:  # vorne: Unterarm mit Hand (offen) und als Faust-Variante aus front_fist.jpg
             save('farm_' + x, M['farm' + s] | M['hand' + s], 'el' + s)
             if fistG is not None:
-                save('farmfist_' + x, M['farm' + s] | M['hand' + s], 'el' + s, src=fistG)
+                save('farmfist_' + x, fistM & ((own == names.index('farm' + s)) | (own == names.index('hand' + s))), 'el' + s, src=fistG, src_alpha=fistA)
             jv['farm_' + x] = [sc(J['el' + s]), sc(J['fi' + s])]
         save('thigh_' + x, M['thigh' + s], 'hip' + s)
         save('calf_' + x, M['calf' + s] | M['foot' + s], 'kn' + s)
@@ -274,10 +273,15 @@ def side_torso(parts, key, cfg):
 # Gesäss + Oberschenkel in gebeugten Stellungen (Seite, ohne Arme). Die Puppe blendet je nach Hüftwinkel
 # zwischen stehend (side.jpg), halb (45) und tief (90) über, statt den stehenden Oberschenkel nur zu drehen.
 # torso = (Hüfte, Schulter) der Zeichnung für den Rumpfwinkel; belt = Unterkante Gürtel; bag = Chalkbag (gehört zum Rumpf).
+# Stehendes Bein (Seite, ohne Arme): Oberschenkel mit Gesäss, Unterschenkel, Fuss. *L = hinteres Bein (nur zum Ausschliessen).
+# scale: Zeichnungen derselben Serie, auf die Grösse des Rumpfs (side_torso.jpg) gebracht.
+SIDE_STAND = dict(src='side_stand.png', scale=1.2, hip=(480, 875), kn=(530, 1125), an=(530, 1350), to=(740, 1440), torso=((470, 860), (440, 490)),
+                  thL=(430, 1010), knL=(405, 1140), anL=(365, 1335), toL=(470, 1405),
+                  belt=((400, 760), (595, 835)), bag=[(258, 705), (402, 708), (398, 765), (362, 800), (358, 908), (258, 908)])
 SIDE_LEGS = {
-    'thigh45': dict(src='side_half.png', hip=(300, 985), kn=(545, 1125), an=(400, 1370), to=(560, 1450), torso=((390, 1015), (480, 650)),
+    'thigh45': dict(src='side_half.png', scale=1.03, hip=(300, 985), kn=(545, 1125), an=(400, 1370), to=(560, 1450), torso=((390, 1015), (480, 650)),
                     belt=((280, 885), (525, 968)), bag=[(160, 812), (325, 815), (320, 860), (268, 895), (262, 1008), (160, 1012)]),
-    'thigh90': dict(src='side_torso.jpg', hip=(320, 1000), kn=(660, 1010), an=(520, 1330), to=(700, 1420), torso=((400, 985), (450, 585)),
+    'thigh90': dict(src='side_torso.jpg', scale=1.0, hip=(335, 985), kn=(640, 1010), an=(520, 1330), to=(700, 1420), torso=((400, 985), (450, 585)),
                     belt=((300, 845), (540, 910)), bag=[(140, 785), (305, 785), (300, 830), (222, 880), (220, 1008), (140, 1012)]),
 }
 
@@ -287,6 +291,59 @@ def flex_of(torso, hip, kn):
     ta = np.degrees(np.arctan2(torso[1][1] - torso[0][1], torso[1][0] - torso[0][0]))
     th = np.degrees(np.arctan2(kn[1] - hip[1], kn[0] - hip[0]))
     return float((ta + 180 - th + 180) % 360 - 180)
+
+
+def side_stand(parts, cfg):
+    """Stehendes Bein aus side_stand.png: thigh, calf (mit Fuss), shin, foot, je auch als _far (dunkler)."""
+    A, G, fig, alpha = figure(cfg['src'])
+    H, W = fig.shape
+    yy, xx = np.mgrid[0:H, 0:W]
+    (bx0, by0), (bx1, by1) = cfg['belt']
+    below = yy > by0 + (xx - bx0) * (by1 - by0) / (bx1 - bx0) - 14
+    im = Image.new('L', (W, H), 0)
+    ImageDraw.Draw(im).polygon(cfg['bag'], fill=1)
+    bag = np.asarray(im).astype(bool)
+
+    def segd(a, b):
+        a = np.array(a, float); b = np.array(b, float); d = b - a
+        t = np.clip(((xx - a[0]) * d[0] + (yy - a[1]) * d[1]) / (d @ d), 0, 1)
+        return np.hypot(xx - a[0] - t * d[0], yy - a[1] - t * d[1])
+    bones = {'thigh': ('hip', 'kn'), 'calf': ('kn', 'an'), 'foot': ('an', 'to'),
+             'x2': ('knL', 'anL'), 'x3': ('anL', 'toL')}  # hinterer Oberschenkel liegt verdeckt: alles darüber gehört vorne
+    names = list(bones)
+    own = np.argmin(np.stack([segd(cfg[a], cfg[b]) for a, b in bones.values()]), 0)
+    rest = fig & below & ~bag
+    M = {k: rest & (own == i) for i, k in enumerate(names)}
+    f = S * cfg['scale']
+
+    def cut(key, mask, joint=None, r=0):
+        mask = ndi.binary_opening(mask, iterations=2)
+        lb, nn = ndi.label(mask)
+        if nn > 1:
+            mask = lb == (np.argmax(ndi.sum(mask, lb, range(1, nn + 1))) + 1)
+        g = G.copy(); a0 = alpha.copy()
+        if joint:  # Gelenkkappe mit eigenem Fell (liegt unter dem Elternteil)
+            cap = (np.hypot(xx - cfg[joint][0], yy - cfg[joint][1]) < r) & ~mask & ndi.binary_erosion(fig, iterations=4)  # nie über den Umriss hinaus
+            inner = ndi.binary_erosion(mask, iterations=8)
+            _, (iy, ix) = ndi.distance_transform_edt(~inner, return_indices=True)
+            g[cap] = ndi.gaussian_filter(G, 3)[iy[cap], ix[cap]]; a0[cap] = 1.0
+            mask = mask | cap
+        mask = mask | (ndi.binary_dilation(mask, iterations=2) & ndi.binary_erosion(fig, iterations=3) & ~bag & below)
+        a = ndi.gaussian_filter(mask.astype(float), 0.8) * np.where(mask, a0, 0)
+        for far, dark in (('', 1.0), ('_far', FAR_DARK)):
+            img = Image.fromarray(np.dstack([np.clip(g * dark, 0, 255), np.clip(a * 255, 0, 255)]).astype(np.uint8), 'LA')
+            bb = img.getchannel('A').getbbox()
+            img = img.crop(bb).resize((round((bb[2] - bb[0]) * f), round((bb[3] - bb[1]) * f)), Image.LANCZOS)
+            img.save(os.path.join(OUT, f'v2side_{key}{far}.png'), optimize=True)
+            x0, y0 = round(bb[0] * f), round(bb[1] * f)
+            parts[f'v2side_{key}{far}'] = [x0, y0, x0 + img.width, y0 + img.height]
+    cut('thigh', M['thigh'])
+    cut('calf', M['calf'] | M['foot'], 'kn', 58)
+    cut('shin', M['calf'], 'kn', 58)
+    cut('foot', M['foot'], 'an', 44)
+    sc = lambda q: [round(q[0] * f, 1), round(q[1] * f, 1)]
+    return {'thigh': [sc(cfg['hip']), sc(cfg['kn'])], 'calf': [sc(cfg['kn']), sc(cfg['an'])], 'shin': [sc(cfg['kn']), sc(cfg['an'])],
+            'foot': [sc(cfg['an']), sc(cfg['to'])]}, flex_of(cfg['torso'], cfg['hip'], cfg['kn'])
 
 
 def side_thigh(parts, key, cfg, scale):
